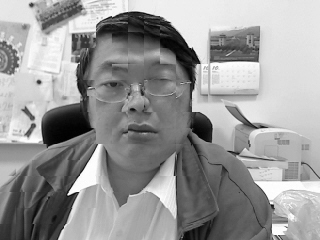
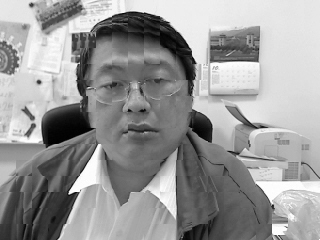
Fix 1 Bug & Try to fix imwrite access violation

diff --git a/Multimedia Assignments/Assignment 03 - MotionVectorPrediction/MotionVectorPrediction/MotionVectorPrediction/Source.cpp b/Multimedia Assignments/Assignment 03 - MotionVectorPrediction/MotionVectorPrediction/MotionVectorPrediction/Source.cpp
@@ -1,10 +1,64 @@
 #include <iostream>
+#include <fstream>
+#include <cstdio>
 #include "MVSearchLib.h"
+
+void WritePGMImage(std::string path, cv::Mat data) {
+
+	//https://docs.opencv.org/3.0-beta/modules/imgcodecs/doc/reading_and_writing_images.html
+	
+	std::vector<int> compression_params;
+	compression_params.push_back(CV_IMWRITE_PXM_BINARY);
+	compression_params.push_back(1);
+
+#pragma region  This Part: I try to solve the  opencv_world320.dll Access Violation
+	//the problem is the same as:
+	//English Description Version: http://answers.opencv.org/question/73889/access-violation-when-using-imwrite-to-save-an-imagemat/
+	//Chinese Description Version: http://bbs.csdn.net/topics/391843419?page=1
+
+
+	// I thought:
+	// ==> Imwrite --> PGM does not support to generate the file (when the same name file exists)
+
+
+	// However, it still has the problem:
+
+	////delete the same name file
+	///*
+	//If you want to delete file:
+	//You must close it first:
+	//Otherwise, it will cause [Permission Denied]
+	////https://stackoverflow.com/questions/20237676/permission-denied-when-deleting-file-created-successfully-by-fopen
+
+	//Error Info stored in [perror]
+	//*/
+	//std::fstream file_checker(path);
+	//if (file_checker.is_open())
+	//{
+	//	file_checker.close();
+	//	if (!std::remove(path.c_str()));
+	//		std::perror("Error Info:");
+	//}
+	//else 
+	//	file_checker.close();
+
+
+	//try {
+	//	cv::imwrite(path, data, compression_params);
+	//}
+	//catch (cv::Exception&e) {
+	//	const char* err_msg = e.what();
+	//	std::cout << "exception caught: " << err_msg << std::endl;
+	//}
+#pragma endregion
+	cv::imwrite(path, data, compression_params);
+}
+
 
 int main() {
 
-	std::string ref_image_name = "reference.pgm";
-	std::string tar_image_name = "target.pgm";
+	std::string ref_image_name = "Reference Image.pgm";
+	std::string tar_image_name = "Target Image.pgm";
 	std::string path_name = "C:/Users/Winter Pu/Desktop/Frames/";
 	cv::Mat reference_image;
 	cv::Mat target_image;
@@ -18,26 +72,33 @@ int main() {
 		return -1;
 	}
 
+	std::cout << std::endl << std::endl;
+
 	Predictor predictor(16,15,reference_image,target_image);
 	predictor.Predict(Predictor::SEQUENTIAL_SEARCH);
 	std::cout << "Sequential Search:" << std::endl;
 	std::cout << "Total Consuming Time:" << predictor.GetMethodConsumingTime()<<std::endl;
 	std::cout << "SNR Value:" << predictor.GetSNRValue()<< std::endl << std::endl << std::endl;
-	cv::imshow("Sequential Search Image", predictor.GetPredictedImage());
+	cv::Mat image_sequential_search = predictor.GetPredictedImage().clone();
+	cv::imshow("Sequential Search Image", image_sequential_search);
 	
-	std::vector<int> compression_params;//https://docs.opencv.org/3.0-beta/modules/imgcodecs/doc/reading_and_writing_images.html
-	
-	compression_params.push_back(CV_IMWRITE_PXM_BINARY);
-	compression_params.push_back(1);
-	cv::imwrite(path_name + "Sequential Search Image.pgm", predictor.GetPredictedImage(), compression_params);
+	std::string final_image_name01 = "Sequential Search Image.pgm";
+	std::string final_path01 = path_name + final_image_name01;
+	WritePGMImage(final_path01, image_sequential_search);
+
+
+/////////////////////////////////////////////////////////////////////////////////
+
 
 	predictor.Predict(Predictor::LOGARITHM_2D_SEARCH);
 	std::cout << "2D Logarithm Search:" << std::endl;
 	std::cout << "Total Consuming Time:" << predictor.GetMethodConsumingTime() << std::endl;
 	std::cout << "SNR Value:" << predictor.GetSNRValue() << std::endl;
-	cv::imshow("2D Logarithm Search Image", predictor.GetPredictedImage());
-	cv::imwrite(path_name + "2D Logarithm Search Image.pgm", predictor.GetPredictedImage(), compression_params);
-
+	cv::Mat image_2Dlogarithm = predictor.GetPredictedImage().clone();
+	cv::imshow("2D Logarithm Search Image", image_2Dlogarithm);
+	std::string final_image_name02 = "2D Logarithm Search Image.pgm";
+	std::string final_path02 = path_name + final_image_name02;
+	WritePGMImage(final_path02, image_2Dlogarithm);
 
 	cv::imshow("Reference Image", reference_image);
 	cv::imshow("Target Image", target_image);

diff --git a/Multimedia Assignments/Assignment 03 - MotionVectorPrediction/MotionVectorPrediction/MotionVectorPrediction/MVSearchLib.cpp b/Multimedia Assignments/Assignment 03 - MotionVectorPrediction/MotionVectorPrediction/MotionVectorPrediction/MVSearchLib.cpp
@@ -69,32 +69,47 @@ MotionVector Predictor::Logarithm2DSearch(int x, int y)
 {
 	double min_mad = MAX_VALUE;
 	MotionVector motionvector;
-	
+
+	// center x, center y [For nine macroblocks]
+	int cx = x;
+	int cy = y;
 	bool last = false;
-	int offset = ceil(P / 2.0);
+	int offset = ceil(P/2.0);
 	MotionVector directions[9] = { {0,0},{0,-1},{0,1},{-1,0},{-1,-1},{-1,1},{1,0},{1,-1},{1,1} };
 	
+	//using [current_motion_vector] [cx,cy]
+	//always find the current (cx,cy) and motion vector in the current time
 	while (!last)
 	{
+		MotionVector current_motion_vector;
 		for (int i = 0; i < 9; i++)
 		{
 			int displacement_i = directions[i].u * offset;
 			int displacement_j = directions[i].v * offset;
 
-			if (!CheckBoundary(x, y) || !CheckBoundary(x + displacement_i, y + displacement_j))
+			if (!CheckBoundary(cx, cy) || !CheckBoundary(cx + displacement_i, cy + displacement_j))
 				continue;
-
-			double current_mad = MAD(x, y, displacement_i, displacement_j);
+			//You have to keep the tar macroblock unchanged. --- to find the most similar block in ref image
+			//so it is *not* MAD[cx,cy,displacement_i,displacement_j]
+			// tar(x,y)[what you want] --- > search ref(different position)
+			double current_mad = MAD(x, y, cx - x + displacement_i, cy - y + displacement_j);
 			if (current_mad < min_mad)
 			{
 				min_mad = current_mad;
-				motionvector.u = displacement_i;
-				motionvector.v = displacement_j;
+				current_motion_vector.u = displacement_i;
+				current_motion_vector.v = displacement_j;
 			}
 		}
 		if (offset == 1)
+		{
+			motionvector.u = current_motion_vector.u + cx - x;
+			motionvector.v = current_motion_vector.v + cy - y;
 			last = true;
-		offset = ceil(offset / 2.0);
+		}
+		offset = ceil(offset/2.0);
+
+		cx = cx+current_motion_vector.u;
+		cy = cy+current_motion_vector.v;
 	}
 
 	return motionvector;
